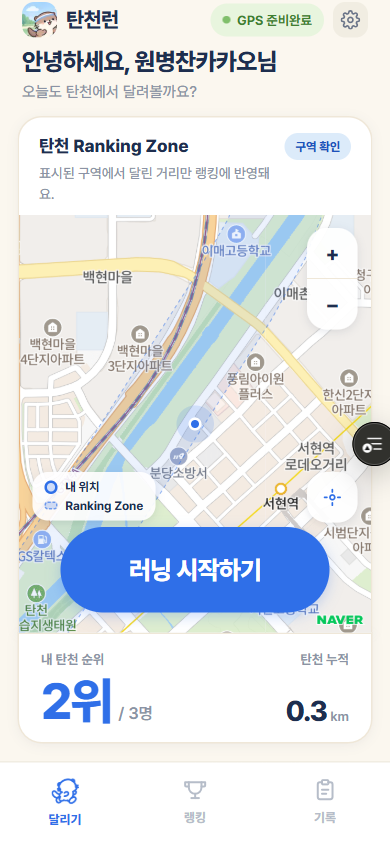
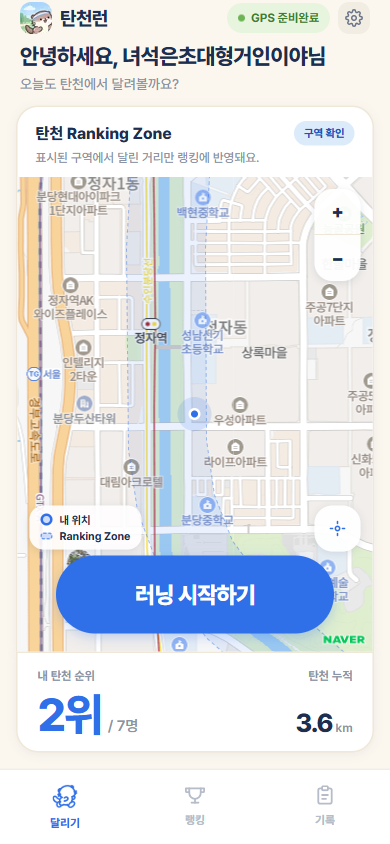
fix: README 2절 구현 캡처 세 장을 production 에서 다시 찍는다
결과 캡처가 341×957 로 혼자 좁아 오른쪽이 잘려 있었다(0.34 km · 탄천 인정
거리 반영 · NAVER 로고). 결과 화면은 스크롤이 생겨서 fullPage 로 찍으면
스크롤바 폭만큼 좁게 잡힌다.

결과만 다시 찍으면 나머지 두 장과 계정·숫자가 어긋나서 세 장을 한 러닝으로
다시 찍었다.

- 폭 390 고정. 결과는 fullPage 대신 뷰포트 높이를 내용 높이로 키워 스크롤을
  없앤 뒤 찍었고, 스크롤바는 CSS 로 숨겼다
- 러닝 진행은 지도를 축소해 경로와 Zone 경계가 보이게 했다 — 기본 줌은
  건물 번호만 보인다
- README 본문의 숫자(0.37/0.30 → 0.46/0.30)와 「production 배포에서 찍었다」로 갱신

Refs #243

diff --git a/README.md b/README.md
@@ -148,7 +148,7 @@ flowchart LR
 
 ### 디자인 vs 구현
 
-실제 구현은 integration 배포에서 찍었다. 지도는 NAVER Maps 실제 타일이다. 러닝은 **탄천 Ranking Zone 안에서 출발해 Zone 밖으로 나가도록** 만들어, 총 거리와 탄천 인정 거리가 갈리는 장면을 담았다 — 세 장 모두 같은 러닝이고, 러닝 진행은 달리는 도중(0.49km 중 0.34km 인정) · 결과는 종료 시점(0.55km 중 0.34km 인정)이다.
+실제 구현은 production 배포에서 찍었다. 지도는 NAVER Maps 실제 타일이다. 러닝은 **탄천 Ranking Zone 안에서 출발해 Zone 밖으로 나가도록** 만들어, 총 거리와 탄천 인정 거리가 갈리는 장면을 담았다 — 세 장 모두 같은 러닝이고, 러닝 진행은 달리는 도중(0.37km 중 0.30km 인정) · 결과는 종료 시점(0.46km 중 0.30km 인정)이다.
 
 피그마 칸은 Figma Make 초안, Claude Design 칸은 구현 기준인 [`탄천런.dc.html`](탄천런.dc.html)이다. 셋 다 **같은 흐름을 직접 밟아** 찍었다 — 로그인 → 홈 → 러닝 시작 → 종료. 세 칸의 배치(상단 인사 · 지도 카드 · 하단 CTA · 3탭)와 Zone 안팎을 가르는 규칙은 그대로 이어졌고, 색·타이포·아이콘이 단계마다 정리됐다.
 
